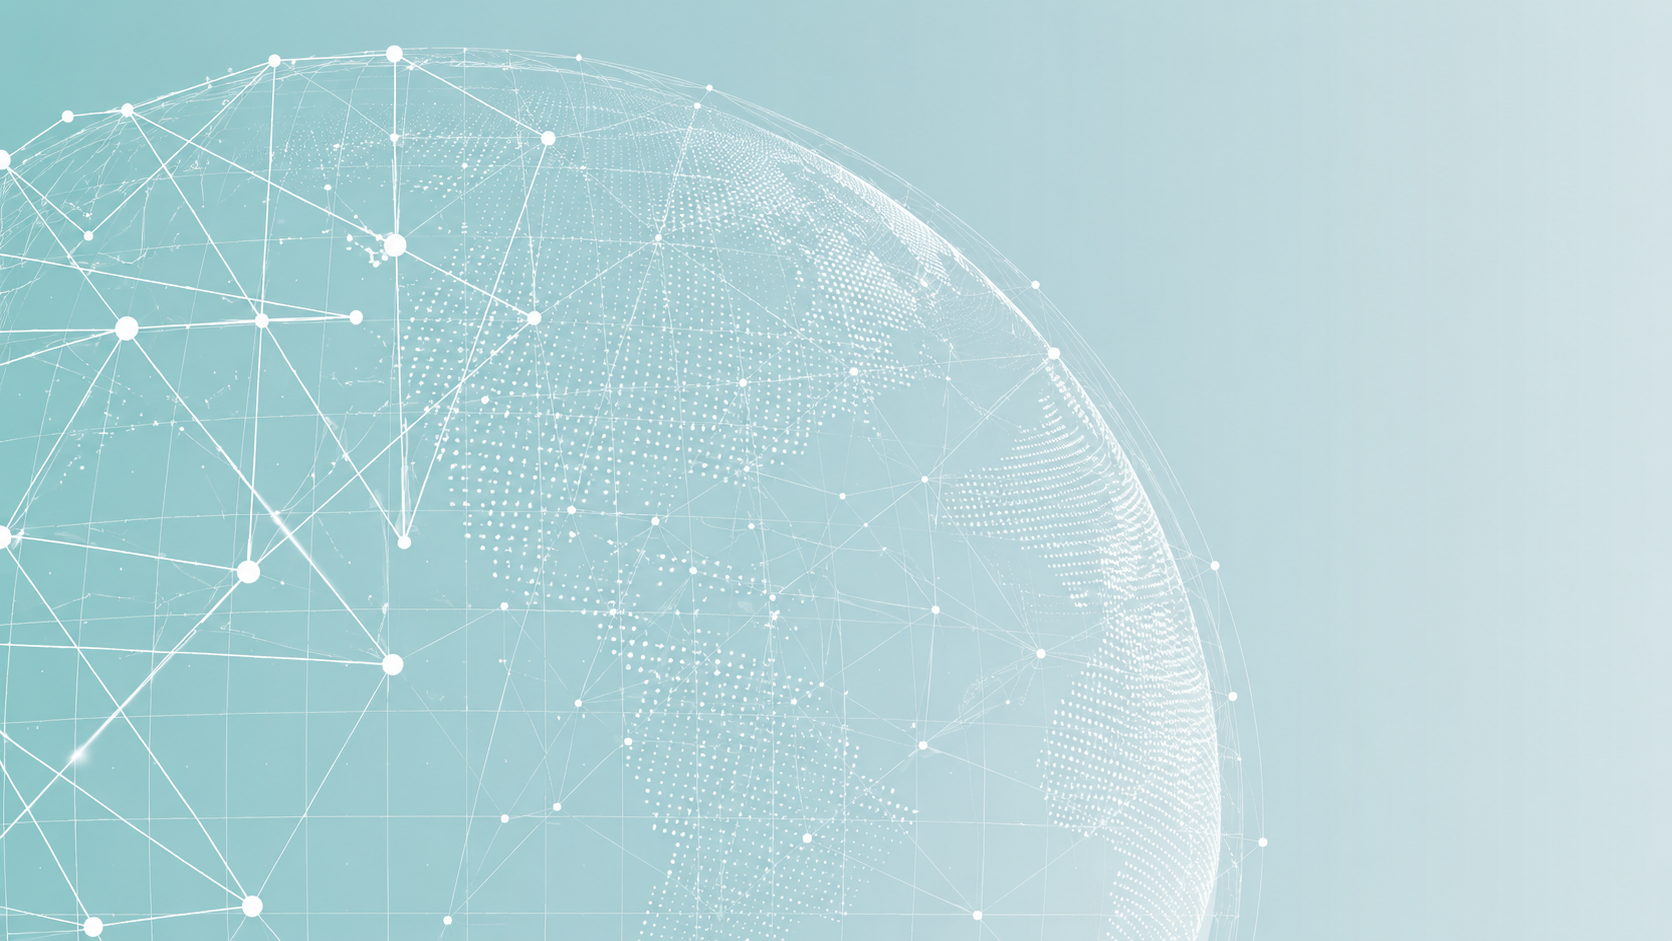
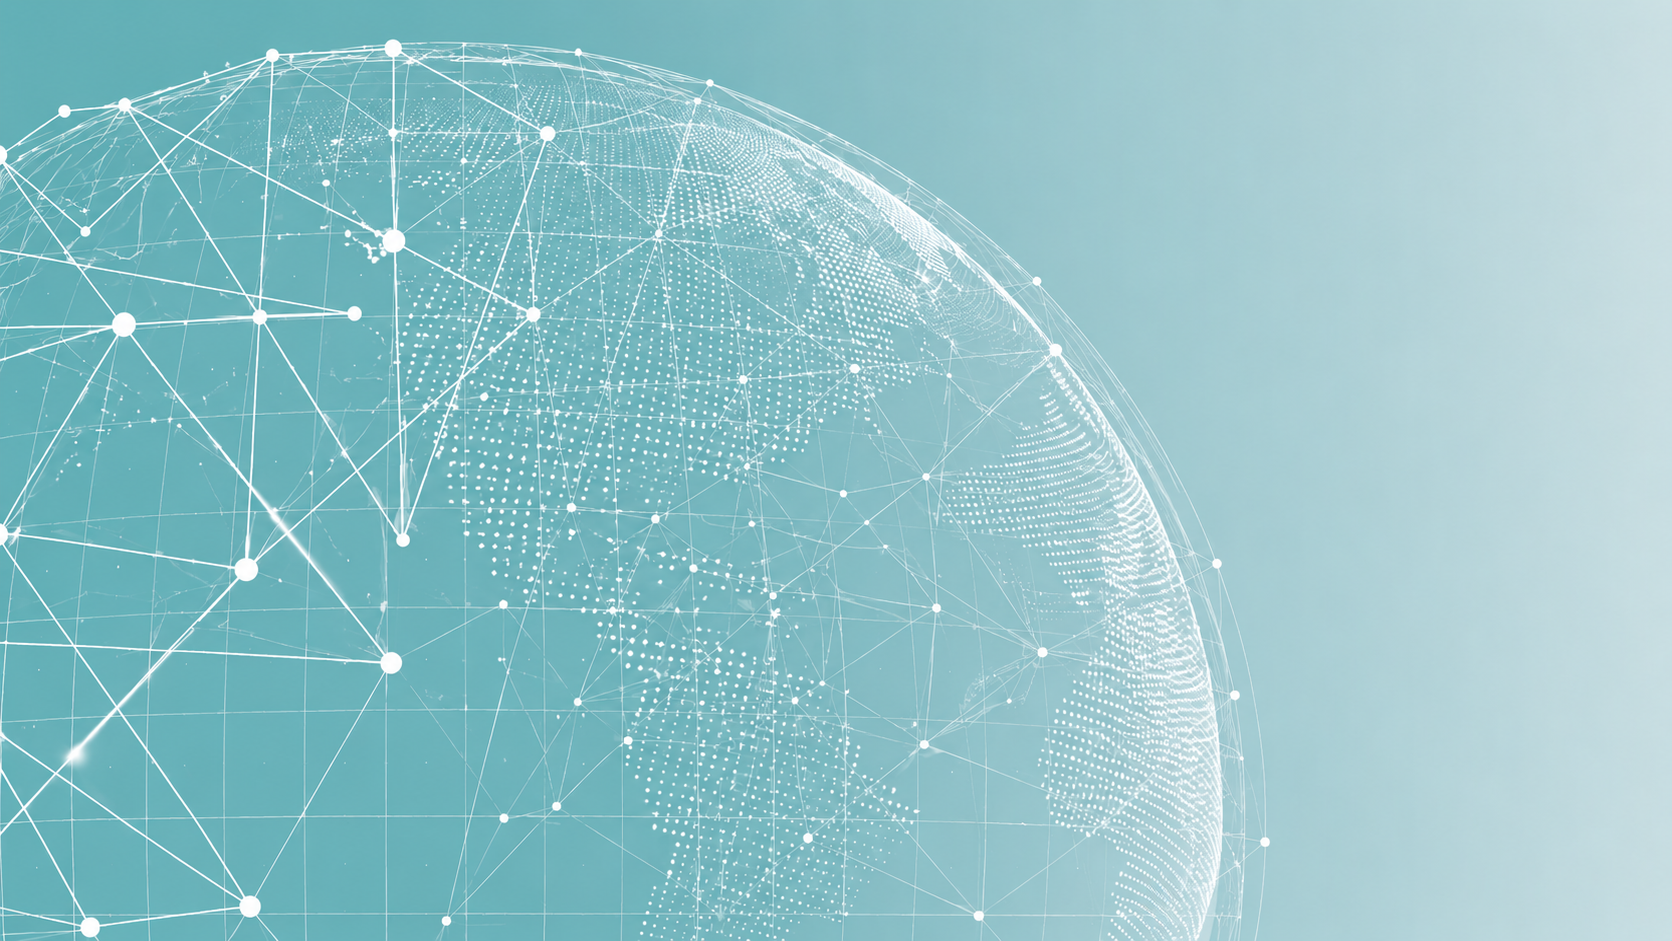
Style updates

diff --git a/_sass/_blog.scss b/_sass/_blog.scss
@@ -15,13 +15,13 @@
     content: "";
     position: absolute;
     inset: 0;
-    background: rgba(0, 0, 0, 0.45);
+    background: rgba(0, 0, 0, 0.2);
   }
 
   .post-title,
   .post-description {
     position: relative;
-    color: #fff;
+    color: #000;
   }
 }
 

diff --git a/_sass/_typography.scss b/_sass/_typography.scss
@@ -19,6 +19,12 @@ strong {
   color: var(--global-text-color);
 }
 
+
+.post-title,
+.about-header h1 {
+  font-family: "DM Sans", sans-serif;
+}
+
 hr {
   border-top: 1px solid var(--global-divider-color);
 }

diff --git a/_pages/about.md b/_pages/about.md
@@ -36,10 +36,6 @@ _styles: >
     max-width: 430px;
   }
 ---
-<div style="padding-left: 2.5rem;" markdown="1">
-
 I am an Assistant Professor at the University of Florida, where I direct the Social Science Collaboratory: a group dedicated to building and understanding big team science initiatives.
 
 Much of my work focuses on collective intelligence – both human and artificial. For example, I founded the [Many Smiles Collaboration](https://www.nature.com/articles/s41562-022-01458-9) and the [Emotion Physiology and Experience Collaboration](https://doi.org/10.1098/rsos.241778). Through global experimentation and crowdsourced machine learning, these collaborations helped document the physiological basis of emotional consciousness. Through this kind of work, I have more broadly studied the [rise](https://osf.io/preprints/psyarxiv/b3mq6_v1), [benefits](https://www.nature.com/articles/d41586-022-00150-2), and [challenges](https://www.science.org/doi/10.1126/science.ado7070) of big teams across the history of science – ranging from the historic Manhattan Project to the modern AI Race.
-
-</div>

diff --git a/_pages/projects.md b/_pages/projects.md
@@ -41,7 +41,7 @@ nav_order: 3
 
 <div class="card border p-3 mb-5">
   <p><em>Figure 2. The Global Gratitude Collaboration collected data from 10,772 participants in 34 countries that covered a broad set of cross-cultural differences.</em></p>
-  {% include figure.liquid path="assets/img/gg_culture.avif" class="img-fluid rounded" %}
+  {% include figure.liquid path="assets/img/gg_culture.avif" class="img-fluid rounded" style="width: 67%;" %}
 </div>
 
 ---

diff --git a/_pages/profiles.md b/_pages/profiles.md
@@ -2,7 +2,7 @@
 layout: profiles
 permalink: /people/
 title: people
-description: members of the lab or group
+description:
 nav: false
 nav_order: 7
 
